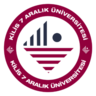
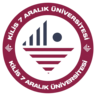
chore: update media assets
Add and update supporting media files to the application documentation/artifacts.

diff --git a/src/components/DetailModal.tsx b/src/components/DetailModal.tsx
@@ -38,6 +38,69 @@ function cleanDetailContentHtml(html?: string | null, coverImg?: string, title?:
     // This prevents broken, unstyled duplicate tables with white headers and squished red icons
     doc.querySelectorAll('#files, .course-list-table, .courses-list, .flat-all-course, .announcement-attached-documents').forEach((el) => el.remove());
 
+    // 1b. Remove CMS sidebars, recent/other announcements lists & navigation widgets
+    doc.querySelectorAll(
+      '.sidebar, #sidebar, .right-sidebar, .left-sidebar, .inner-page__sidebar, ' +
+      '.sidebar-news, .sidebar-announcements, .sidebar-box, .sidebar-card, ' +
+      '.recent-announcements, .latest-announcements, .other-announcements, .other-news, ' +
+      '.related-announcements, .related-news, .announcements-sidebar, .announcement-sidebar, .news-sidebar, ' +
+      '.right-content, .sidebar-item, .sidebar-widget, .widget, .other-contents, .other-posts, ' +
+      '.announcement-all-list, .news-all-list, .sidebar-list, .announcement-list, .news-list, ' +
+      '.side-menu, .side-nav, .right-menu, .left-menu, .sidebar-wrapper, .right-side, .side-bar, ' +
+      '.announcements-right, .announcements-left, .announcement-detail-right, .announcement-detail-left'
+    ).forEach((el) => el.remove());
+
+    doc.querySelectorAll('h1, h2, h3, h4, h5, h6, .title, .sidebar-title, .widget-title, .block-title, strong, b, p, div, span').forEach((el) => {
+      const txt = (el.textContent || '').replace(/\s+/g, ' ').trim().toLowerCase();
+      if (
+        txt.includes('son duyurular') ||
+        txt.includes('diğer duyurular') ||
+        txt.includes('diger duyurular') ||
+        txt.includes('son haberler') ||
+        txt.includes('diğer haberler') ||
+        txt.includes('diger haberler') ||
+        txt.includes('ilgili duyurular') ||
+        txt.includes('ilgili haberler') ||
+        txt.includes('tüm duyurular') ||
+        txt.includes('tum duyurular') ||
+        txt.includes('duyuru arşivi') ||
+        txt.includes('duyuru arsivi') ||
+        txt.includes('son eklenenler') ||
+        txt.includes('diğer içerikler') ||
+        txt.includes('diger icerikler') ||
+        txt.includes('önemli duyurular') ||
+        txt.includes('son etkinlikler') ||
+        txt.includes('diğer etkinlikler') ||
+        txt.includes('benzer duyurular')
+      ) {
+        const parentWidget = el.closest('.sidebar-box, .widget, .card, .block, .sidebar-item, div, section, aside');
+        if (parentWidget && parentWidget.querySelectorAll('a').length > 1) {
+          parentWidget.remove();
+        } else {
+          let sibling = el.nextElementSibling;
+          while (sibling) {
+            const next = sibling.nextElementSibling;
+            if (sibling.tagName === 'UL' || sibling.tagName === 'OL' || sibling.classList.contains('list') || sibling.querySelector('a')) {
+              sibling.remove();
+            }
+            sibling = next;
+          }
+          el.remove();
+        }
+      }
+    });
+
+    // Remove stray lists of announcement/news detail links
+    doc.querySelectorAll('ul, ol, div').forEach((container) => {
+      const annLinks = container.querySelectorAll('a[href*="announcements-detail"], a[href*="announcement-detail"], a[href*="news-detail"]');
+      if (annLinks.length >= 2) {
+        const text = (container.textContent || '').toLowerCase();
+        if (text.includes('duyuru') || text.includes('haber') || text.includes('tarih:')) {
+          container.remove();
+        }
+      }
+    });
+
     doc.querySelectorAll('table').forEach((tbl) => {
       const tblText = (tbl.textContent || '').toLowerCase();
       if (
@@ -281,6 +344,58 @@ function parseUniversityAnnouncementHtml(rawHtml: string, pageUrl: string) {
     const doc = parser.parseFromString(rawHtml, 'text/html');
     const origin = new URL(pageUrl).origin;
 
+    // 0. Remove sidebars, recent/other announcements, and navigation lists before selecting contentBox
+    doc.querySelectorAll(
+      '.sidebar, #sidebar, .right-sidebar, .left-sidebar, .inner-page__sidebar, ' +
+      '.sidebar-news, .sidebar-announcements, .sidebar-box, .sidebar-card, ' +
+      '.recent-announcements, .latest-announcements, .other-announcements, .other-news, ' +
+      '.related-announcements, .related-news, .announcements-sidebar, .announcement-sidebar, .news-sidebar, ' +
+      '.right-content, .sidebar-item, .sidebar-widget, .widget, .other-contents, .other-posts, ' +
+      '.announcement-all-list, .news-all-list, .sidebar-list, .announcement-list, .news-list, ' +
+      '.side-menu, .side-nav, .right-menu, .left-menu, .sidebar-wrapper, .right-side, .side-bar, ' +
+      '.announcements-right, .announcements-left, .announcement-detail-right, .announcement-detail-left'
+    ).forEach((el) => el.remove());
+
+    doc.querySelectorAll('h1, h2, h3, h4, h5, h6, .title, .sidebar-title, .widget-title, .block-title, strong, b, p, div, span').forEach((el) => {
+      const txt = (el.textContent || '').replace(/\s+/g, ' ').trim().toLowerCase();
+      if (
+        txt.includes('son duyurular') ||
+        txt.includes('diğer duyurular') ||
+        txt.includes('diger duyurular') ||
+        txt.includes('son haberler') ||
+        txt.includes('diğer haberler') ||
+        txt.includes('diger haberler') ||
+        txt.includes('ilgili duyurular') ||
+        txt.includes('ilgili haberler') ||
+        txt.includes('tüm duyurular') ||
+        txt.includes('tum duyurular') ||
+        txt.includes('duyuru arşivi') ||
+        txt.includes('duyuru arsivi') ||
+        txt.includes('son eklenenler') ||
+        txt.includes('diğer içerikler') ||
+        txt.includes('diger icerikler') ||
+        txt.includes('önemli duyurular') ||
+        txt.includes('son etkinlikler') ||
+        txt.includes('diğer etkinlikler') ||
+        txt.includes('benzer duyurular')
+      ) {
+        const parentWidget = el.closest('.sidebar-box, .widget, .card, .block, .sidebar-item, div, section, aside');
+        if (parentWidget && parentWidget.querySelectorAll('a').length > 1) {
+          parentWidget.remove();
+        } else {
+          let sibling = el.nextElementSibling;
+          while (sibling) {
+            const next = sibling.nextElementSibling;
+            if (sibling.tagName === 'UL' || sibling.tagName === 'OL' || sibling.classList.contains('list') || sibling.querySelector('a')) {
+              sibling.remove();
+            }
+            sibling = next;
+          }
+          el.remove();
+        }
+      }
+    });
+
     // 1. Title
     const titleEl = doc.querySelector('h1.title, .announcement-detail-title, .news-detail-title, .inner-page__title, h1');
     const title = cleanDuplicateTitle(titleEl?.textContent || '');
@@ -369,6 +484,8 @@ function parseUniversityAnnouncementHtml(rawHtml: string, pageUrl: string) {
     const contentBox = doc.querySelector('.announcement-detail-content-box, .announcement-detail-card, .announcement-detail-wrapper, .announcement-detail-layout') ||
                       doc.querySelector('.announcement-detail-text') ||
                       doc.querySelector('.inner-page__content-description') ||
+                      doc.querySelector('.inner-page__content .left-side') ||
+                      doc.querySelector('.inner-page__content .main-content') ||
                       doc.querySelector('.inner-page__content') ||
                       doc.querySelector('.news-detail-text') ||
                       doc.querySelector('article') ||

diff --git a/server.ts b/server.ts
@@ -1518,6 +1518,51 @@ app.get('/api/detail', async (req, res) => {
     
     const response = await axiosInstance.get(targetUrl, { timeout: 7000 });
     const $ = cheerio.load(response.data);
+
+    // 0. Remove CMS sidebars, recent/other announcements lists, navigation widgets
+    $(
+      '.sidebar, #sidebar, .right-sidebar, .left-sidebar, .inner-page__sidebar, ' +
+      '.sidebar-news, .sidebar-announcements, .sidebar-box, .sidebar-card, ' +
+      '.recent-announcements, .latest-announcements, .other-announcements, .other-news, ' +
+      '.related-announcements, .related-news, .announcements-sidebar, .announcement-sidebar, .news-sidebar, ' +
+      '.right-content, .sidebar-item, .sidebar-widget, .widget, .other-contents, .other-posts, ' +
+      '.announcement-all-list, .news-all-list, .sidebar-list, .announcement-list, .news-list, ' +
+      '.side-menu, .side-nav, .right-menu, .left-menu, .sidebar-wrapper, .right-side, .side-bar, ' +
+      '.announcements-right, .announcements-left, .announcement-detail-right, .announcement-detail-left'
+    ).remove();
+
+    $('h1, h2, h3, h4, h5, h6, .title, .sidebar-title, .widget-title, .block-title, strong, b, p, div, span').each((_, el) => {
+      const txt = $(el).text().replace(/\s+/g, ' ').trim().toLowerCase();
+      if (
+        txt.includes('son duyurular') ||
+        txt.includes('diğer duyurular') ||
+        txt.includes('diger duyurular') ||
+        txt.includes('son haberler') ||
+        txt.includes('diğer haberler') ||
+        txt.includes('diger haberler') ||
+        txt.includes('ilgili duyurular') ||
+        txt.includes('ilgili haberler') ||
+        txt.includes('tüm duyurular') ||
+        txt.includes('tum duyurular') ||
+        txt.includes('duyuru arşivi') ||
+        txt.includes('duyuru arsivi') ||
+        txt.includes('son eklenenler') ||
+        txt.includes('diğer içerikler') ||
+        txt.includes('diger icerikler') ||
+        txt.includes('önemli duyurular') ||
+        txt.includes('son etkinlikler') ||
+        txt.includes('diğer etkinlikler') ||
+        txt.includes('benzer duyurular')
+      ) {
+        const parentWidget = $(el).closest('.sidebar-box, .widget, .card, .block, .sidebar-item, div, section, aside');
+        if (parentWidget.length && parentWidget.find('a').length > 1) {
+          parentWidget.remove();
+        } else {
+          $(el).nextAll('ul, ol, .list, .announcement-list, .news-list, div').remove();
+          $(el).remove();
+        }
+      }
+    });
     
     let title = $('h1.title, .announcement-detail-title, .news-detail-title, .inner-page__title, h1').first().text().trim();
     title = cleanDuplicateTitle(title);
@@ -1598,6 +1643,8 @@ app.get('/api/detail', async (req, res) => {
       '.inner-page__content-description',
       '.announcement-detail-text',
       '.news-detail-text',
+      '.inner-page__content .left-side',
+      '.inner-page__content .main-content',
       '.inner-page__content',
       '.news-content-body',
       '.content-block',
@@ -1763,6 +1810,62 @@ app.get('/api/detail', async (req, res) => {
 
       // Remove separator noise, unstyled CMS Swiper galleries and thumbnail sliders
       $content('.announcement-icon-separator, .title-list, .photo-gallery-header, .swiper, .mySwiper, .full-screen-slider, .photo-gallery, .slider, .fotorama').remove();
+
+      // Remove nested sidebars, recent/other announcements lists & navigation widgets
+      $content(
+        '.sidebar, #sidebar, .right-sidebar, .left-sidebar, .inner-page__sidebar, ' +
+        '.sidebar-news, .sidebar-announcements, .sidebar-box, .sidebar-card, ' +
+        '.recent-announcements, .latest-announcements, .other-announcements, .other-news, ' +
+        '.related-announcements, .related-news, .announcements-sidebar, .announcement-sidebar, .news-sidebar, ' +
+        '.right-content, .sidebar-item, .sidebar-widget, .widget, .other-contents, .other-posts, ' +
+        '.announcement-all-list, .news-all-list, .sidebar-list, .announcement-list, .news-list, ' +
+        '.side-menu, .side-nav, .right-menu, .left-menu, .sidebar-wrapper, .right-side, .side-bar, ' +
+        '.announcements-right, .announcements-left, .announcement-detail-right, .announcement-detail-left'
+      ).remove();
+
+      $content('h1, h2, h3, h4, h5, h6, .title, .sidebar-title, .widget-title, .block-title, strong, b, p, div, span').each((_, el) => {
+        const txt = $content(el).text().replace(/\s+/g, ' ').trim().toLowerCase();
+        if (
+          txt.includes('son duyurular') ||
+          txt.includes('diğer duyurular') ||
+          txt.includes('diger duyurular') ||
+          txt.includes('son haberler') ||
+          txt.includes('diğer haberler') ||
+          txt.includes('diger haberler') ||
+          txt.includes('ilgili duyurular') ||
+          txt.includes('ilgili haberler') ||
+          txt.includes('tüm duyurular') ||
+          txt.includes('tum duyurular') ||
+          txt.includes('duyuru arşivi') ||
+          txt.includes('duyuru arsivi') ||
+          txt.includes('son eklenenler') ||
+          txt.includes('diğer içerikler') ||
+          txt.includes('diger icerikler') ||
+          txt.includes('önemli duyurular') ||
+          txt.includes('son etkinlikler') ||
+          txt.includes('diğer etkinlikler') ||
+          txt.includes('benzer duyurular')
+        ) {
+          const parentWidget = $content(el).closest('.sidebar-box, .widget, .card, .block, .sidebar-item, div, section, aside');
+          if (parentWidget.length && parentWidget.find('a').length > 1) {
+            parentWidget.remove();
+          } else {
+            $content(el).nextAll('ul, ol, .list, .announcement-list, .news-list, div').remove();
+            $content(el).remove();
+          }
+        }
+      });
+
+      // Remove stray lists of announcement/news detail links
+      $content('ul, ol, div').each((_, container) => {
+        const annLinks = $content(container).find('a[href*="announcements-detail"], a[href*="announcement-detail"], a[href*="news-detail"]');
+        if (annLinks.length >= 2) {
+          const text = $content(container).text().toLowerCase();
+          if (text.includes('duyuru') || text.includes('haber') || text.includes('tarih:')) {
+            $content(container).remove();
+          }
+        }
+      });
 
       // 3. Robust image deduplication: Ensure no image is shown 2 or 3 times
       const seenImgs = new Set<string>();

diff --git a/src/components/AboutModal.tsx b/src/components/AboutModal.tsx
@@ -70,16 +70,16 @@ export function AboutContent({ isModal = false }: AboutContentProps) {
 
         <p className="p-3.5 rounded-2xl bg-stone-100/80 dark:bg-white/5 border border-stone-200/80 dark:border-white/5">
           <strong className="text-stone-900 dark:text-white font-bold block mb-1">
-            Gizlilik ve Veri Güvenliği
+            Telif Hakları & Teknolojik Altyapı
           </strong>
-          Bu uygulamayı hiçbir ticari amaç gütmeden geliştirdim. Uygulama, kullanıcı verisi toplamamakta olup kullanılan tüm bilgiler kamuya açık kaynaklardan derlenmiştir. Sunucularda hiçbir veri depolanmamakta, veriler yalnızca kullanıcının kendi cihazında muhafaza edilmektedir.
+          Kaynak kodları tamamen özgün olup, tüm hakları tarafıma (<span className="font-semibold text-stone-900 dark:text-white">Davut ŞAHİN</span>) aittir. Geliştirme sürecinde TypeScript, JavaScript (ESNext & CommonJS), HTML5, CSS3 & Tailwind CSS, JSON ve daha birçok modern teknoloji ile altyapı kullanılmıştır.
         </p>
 
         <p className="p-3.5 rounded-2xl bg-stone-100/80 dark:bg-white/5 border border-stone-200/80 dark:border-white/5">
           <strong className="text-stone-900 dark:text-white font-bold block mb-1">
-            Telif Hakları & Teknolojik Altyapı
+            Gizlilik ve Veri Güvenliği
           </strong>
-          Kaynak kodları tamamen özgün olup, tüm hakları tarafıma (<span className="font-semibold text-stone-900 dark:text-white">Davut ŞAHİN</span>) aittir. Geliştirme sürecinde TypeScript, JavaScript (ESNext & CommonJS), HTML5, CSS3 & Tailwind CSS, JSON ve daha birçok modern teknoloji ile altyapı kullanılmıştır.
+          Bu uygulamayı hiçbir ticari amaç gütmeden geliştirdim. Uygulama, kullanıcı verisi toplamamakta olup kullanılan tüm bilgiler kamuya açık kaynaklardan derlenmiştir. Sunucularda hiçbir veri depolanmamakta, veriler yalnızca kullanıcının kendi cihazında muhafaza edilmektedir.
         </p>
 
         <div className="p-3.5 rounded-2xl bg-stone-100/80 dark:bg-white/5 border border-stone-200/80 dark:border-white/5 flex flex-col sm:flex-row sm:items-center justify-between gap-3">

diff --git a/src/components/K7Logo.tsx b/src/components/K7Logo.tsx
@@ -12,7 +12,7 @@ export default function K7Logo({ className = 'w-10 h-10', size, showText = false
   return (
     <div className={`relative flex items-center shrink-0 select-none ${className}`} style={style}>
       <img
-        src="/k7_official_logo.png"
+        src="/ust_bar_logo.png"
         alt="Kilis 7 Aralık Üniversitesi Resmi Logosu"
         className="w-full h-full object-contain rounded-full drop-shadow-md transition-transform hover:scale-105"
         loading="eager"
